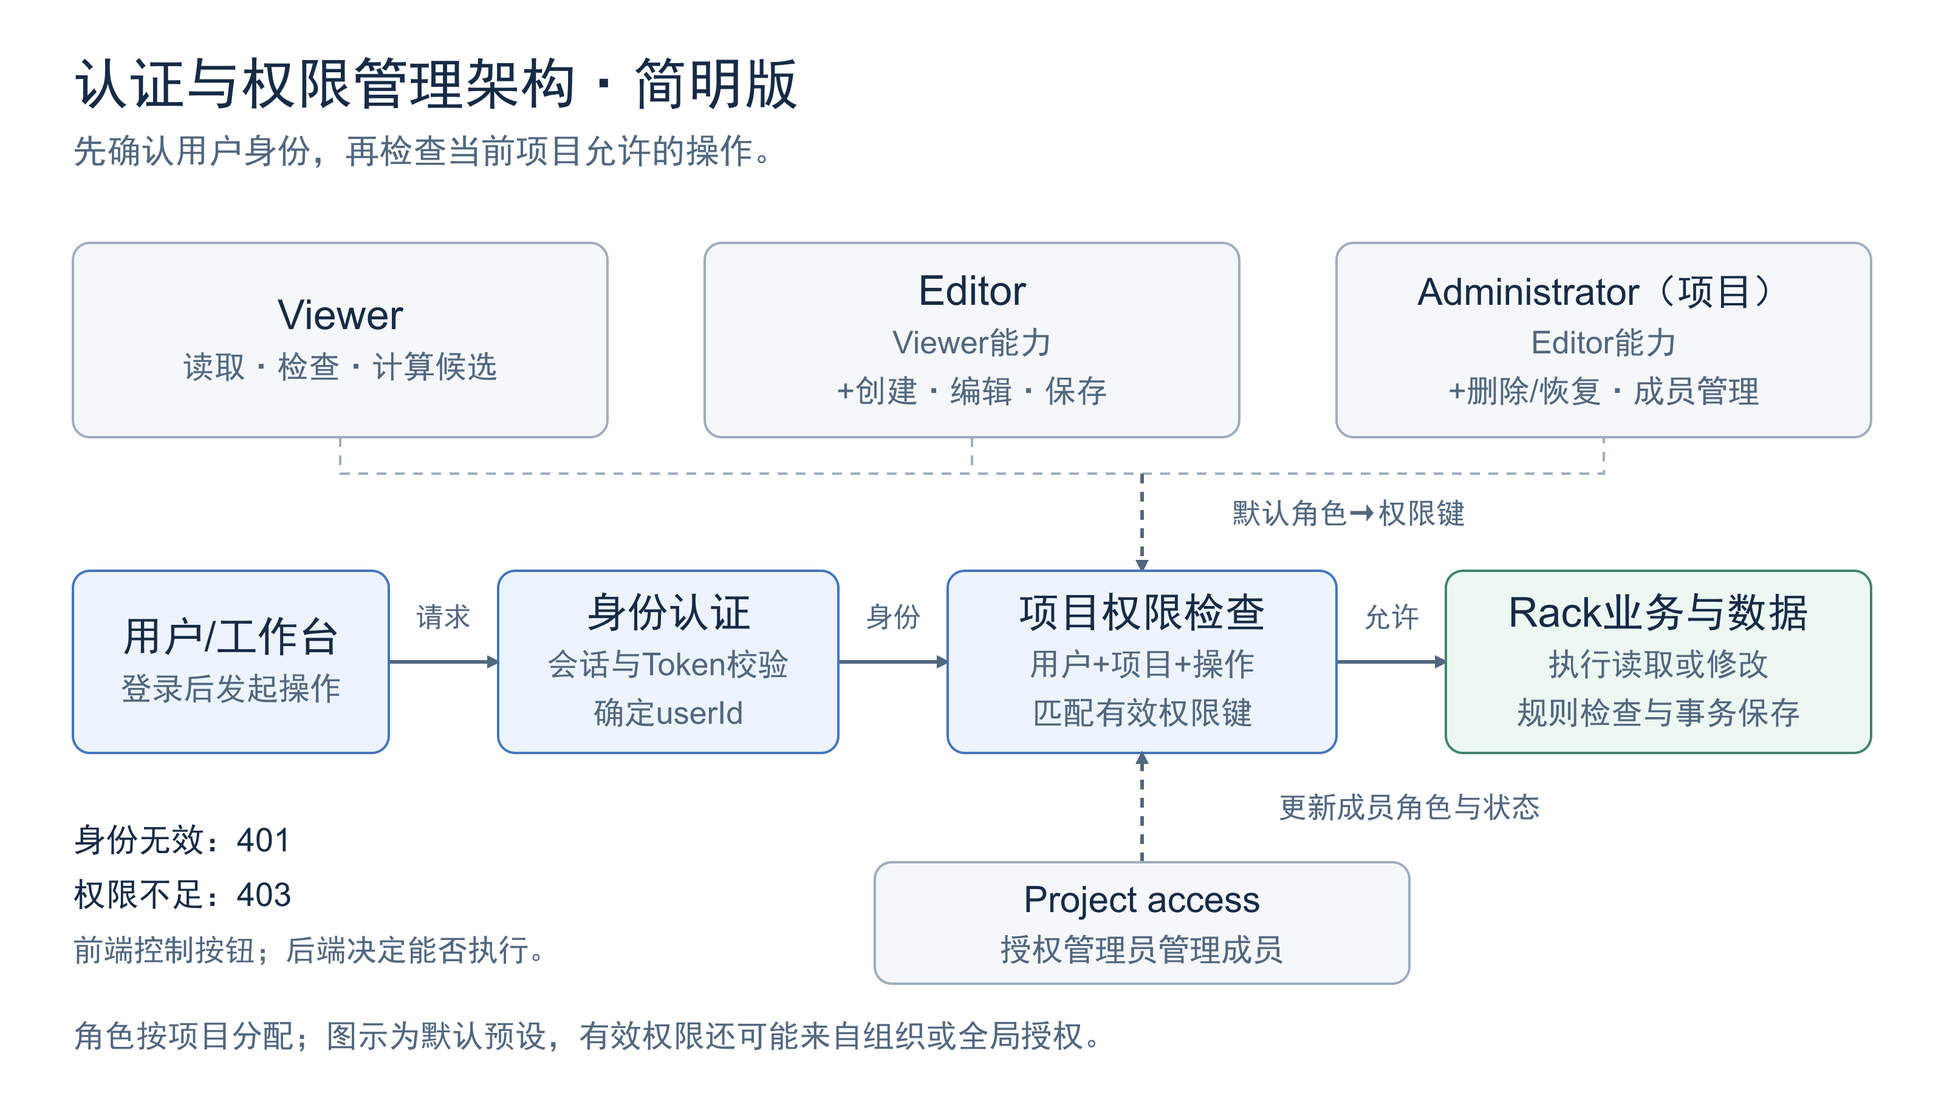
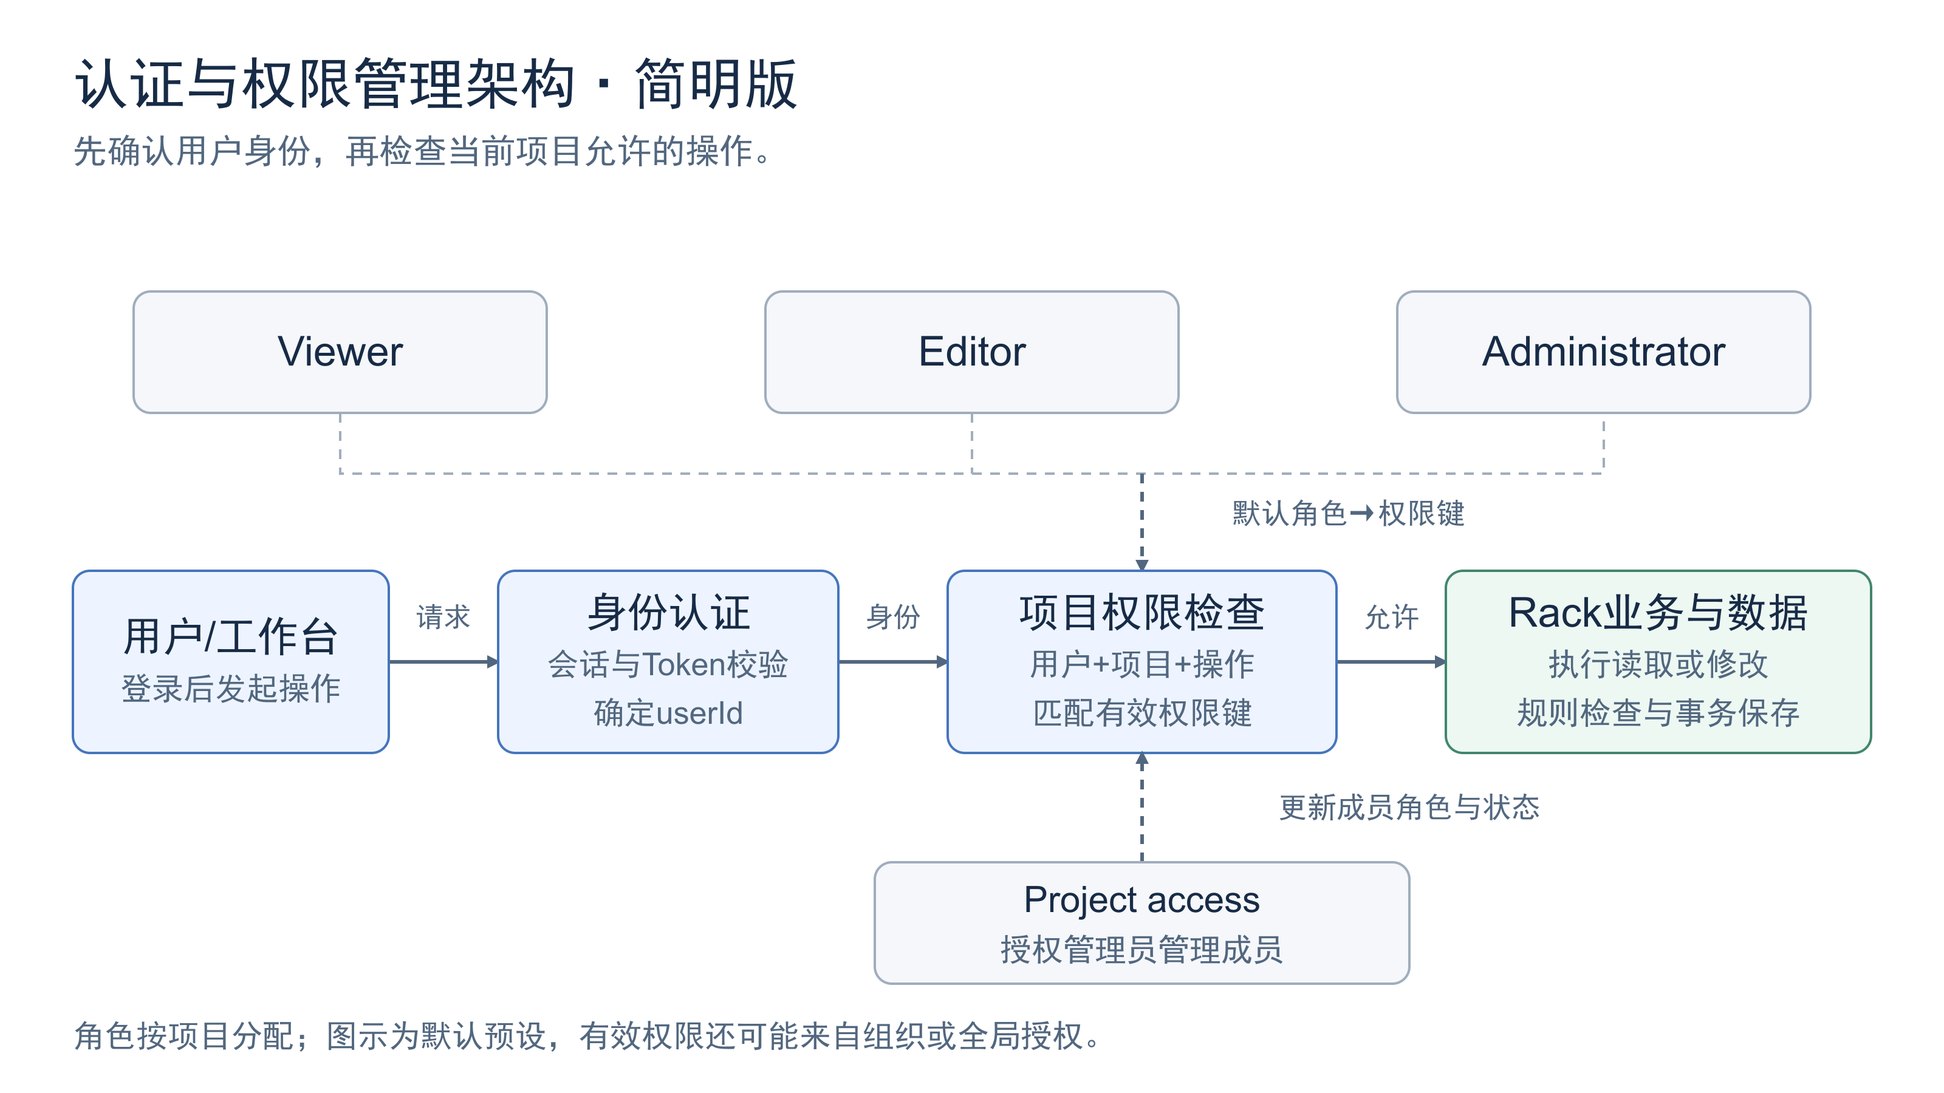
update some changes 202611011731

diff --git a/packages/rack/src/planner.js b/packages/rack/src/planner.js
@@ -49,6 +49,64 @@ function* posesFor(rack, model, boundary, clearance, options) {
   }
 }
 
+const shapeBounds = geometry => {
+  const points = geometry.coordinates[0];
+  return { minX: Math.min(...points.map(p=>p[0])), maxX: Math.max(...points.map(p=>p[0])),
+    minY: Math.min(...points.map(p=>p[1])), maxY: Math.max(...points.map(p=>p[1])) };
+};
+const unionBounds = bounds => ({ minX: Math.min(...bounds.map(b=>b.minX)), maxX: Math.max(...bounds.map(b=>b.maxX)),
+  minY: Math.min(...bounds.map(b=>b.minY)), maxY: Math.max(...bounds.map(b=>b.maxY)) });
+const occupiedBounds = shape => unionBounds([shape.bounds,...shape.bands.map(shapeBounds)]);
+// These shapes are rectangles at quarter turns. Reject only definite interior
+// overlap, with a conservative tolerance for rotation roundoff; PostGIS still
+// decides boundary/obstacle contact, holes and complete candidate validity.
+const overlaps = (a,b) => Math.min(a.maxX,b.maxX)-Math.max(a.minX,b.minX)>1e-8 &&
+  Math.min(a.maxY,b.maxY)-Math.max(a.minY,b.minY)>1e-8;
+
+function adjacentPoses(rack, model, boundary, clearance, options, placed) {
+  const room = shapeBounds(boundary);
+  if (!placed.length) {
+    const seed=plannerGeometry(rack,model,clearance), b=occupiedBounds(seed);
+    return b.minX>=room.minX && b.maxX<=room.maxX && b.minY>=room.minY && b.maxY<=room.maxY ? [seed] : [];
+  }
+  const core = unionBounds(placed.map(p=>p.bounds));
+  const fixed = placed.map(p=>({shape:p,extent:occupiedBounds(p),bands:p.bands.map(shapeBounds)}));
+  const rotations = options.allow_rotation ? [rack.rotationDeg,...[0,90,180,270].filter(r=>r!==rack.rotationDeg)] : [rack.rotationDeg];
+  const seen = new Set(), candidates = [];
+  const gap = Math.min(.2,options.grid_step_m);
+  for (const rotationDeg of rotations) {
+    const origin = plannerGeometry({...rack,xM:0,yM:0,rotationDeg},model,clearance);
+    const extent = occupiedBounds(origin);
+    for (const anchor of fixed) {
+      const a = anchor.shape.placement, b = anchor.extent;
+      const positions = [
+        [b.minX-extent.maxX-gap,a.yM], [b.maxX-extent.minX+gap,a.yM],
+        [a.xM,b.minY-extent.maxY-gap], [a.xM,b.maxY-extent.minY+gap],
+      ];
+      for (const [direction,[xM,yM]] of positions.entries()) {
+        if (Math.abs(xM)>10000 || Math.abs(yM)>10000) continue;
+        const key = `${rotationDeg}:${xM.toFixed(8)}:${yM.toFixed(8)}`;
+        if (seen.has(key)) continue;
+        seen.add(key);
+        if (xM+extent.minX<room.minX || xM+extent.maxX>room.maxX || yM+extent.minY<room.minY || yM+extent.maxY>room.maxY) continue;
+        const shape = plannerGeometry({...rack,xM,yM,rotationDeg},model,clearance);
+        const bands = shape.bands.map(shapeBounds);
+        if (fixed.some(p=>overlaps(shape.bounds,p.shape.bounds) || p.bands.some(b=>overlaps(shape.bounds,b)) || bands.some(b=>overlaps(b,p.shape.bounds)))) continue;
+        const next = unionBounds([core,shape.bounds]);
+        // Extend aligned rows, but start another row before creating a long
+        // one-rack-wide strip. Existing wide fixed clusters are not penalized.
+        const stretched=(next.maxX-next.minX)/(next.maxY-next.minY)>Math.max(2,(core.maxX-core.minX)/(core.maxY-core.minY));
+        candidates.push({shape, aligned: rotationDeg!==a.rotationDeg ? 2 : direction<2 ? (stretched?1:0) : (stretched?0:1),
+          area:(next.maxX-next.minX)*(next.maxY-next.minY),
+          distance:Math.hypot(xM-(core.minX+core.maxX)/2,yM-(core.minY+core.maxY)/2)});
+      }
+    }
+  }
+  candidates.sort((a,b)=>a.aligned-b.aligned || a.area-b.area || a.distance-b.distance ||
+    a.shape.placement.yM-b.shape.placement.yM || a.shape.placement.xM-b.shape.placement.xM || a.shape.placement.rotationDeg-b.shape.placement.rotationDeg);
+  return candidates.map(c=>c.shape);
+}
+
 export function layoutMetrics(placements, models, previous) {
   const catalog = new Map(models.map(m => [m.modelId, m]));
   const footprints = placements.map(p => rackFootprint(catalog.get(p.modelId), p).boundsM);
@@ -92,6 +150,22 @@ export async function generateRackOptions({ placements, models, boundary, constr
       });
       const search = searches.get(key);
       let found = null, rackSubmitted = 0, exhausted = false;
+      // Grow rows around the fixed/placed cluster before searching the room grid.
+      // These are freshly ranked for every rack; successful placement changes
+      // the compact envelope and creates new adjacent row-extension positions.
+      const nearby = adjacentPoses(rack,catalog.get(rack.modelId),boundary,constraints.clearance,options,placed);
+      for (let offset=0;offset<nearby.length && !found && rackSubmitted<PLANNER_LIMITS.posesPerRack && submitted<PLANNER_LIMITS.posesPerOption;) {
+        // Ranked neighbours usually succeed near the front. Avoid submitting a
+        // full room-grid batch against every fixed rack just to use its first pose.
+        const count=Math.min(32,PLANNER_LIMITS.batchSize,nearby.length-offset,PLANNER_LIMITS.posesPerRack-rackSubmitted,PLANNER_LIMITS.posesPerOption-submitted);
+        const batch=nearby.slice(offset,offset+count);offset+=count;
+        rackSubmitted+=count;submitted+=count;
+        const index=await pickPosition(batch,placed);
+        if (index!==null) {
+          if (!Number.isInteger(index)||index<0||index>=batch.length) throw new Error('Invalid planner geometry adapter result');
+          found=batch[index];
+        }
+      }
       while (!found && rackSubmitted < PLANNER_LIMITS.posesPerRack && submitted < PLANNER_LIMITS.posesPerOption) {
         const batch = [];
         const count = Math.min(PLANNER_LIMITS.batchSize, PLANNER_LIMITS.posesPerRack - rackSubmitted, PLANNER_LIMITS.posesPerOption - submitted);

diff --git a/packages/rack/src/tests/planner.test.js b/packages/rack/src/tests/planner.test.js
@@ -22,7 +22,7 @@ test('both strategies are repeatable, compact racks and leave inputs unchanged',
   const result=await generateRackOptions(input);
   assert.deepEqual(result,await generateRackOptions(input));
   assert.equal(result.length,2);
-  for(const option of result){assert.equal(option.unplaced.length,0);assert.equal(option.metrics.envelopeAreaM2,4);assert.equal(option.metrics.movedRacks,2);}
+  for(const option of result){assert.equal(option.unplaced.length,0);assert.ok(Math.abs(option.metrics.envelopeAreaM2-4.4)<1e-8);assert.equal(option.metrics.movedRacks,1);}
   assert.deepEqual({...input,pickPosition:undefined},before);
 });
 test('locked cabinets keep every property, and largest-first orders heterogeneous sizes with stable ties', async()=>{
@@ -38,7 +38,7 @@ test('maintenance bands rotate physically with the proposal; geometry adapter co
   const constraints={...EMPTY_SPATIAL_CONSTRAINTS,clearance:{frontM:1,rearM:.5}};
   const g=plannerGeometry({...rack(1),xM:0,yM:0,rotationDeg:90},model,constraints.clearance);
   assert.equal(g.bands.length,2);assert.ok(g.bands[0].coordinates[0].every(p=>p[0]>=1));
-  const [option]=await generateRackOptions(fixture({constraints,options:{allow_rotation:true,strategy:'INPUT_ORDER'},pickPosition:async batch=>batch.findIndex(p=>p.placement.rotationDeg===90)}));
+  const [option]=await generateRackOptions(fixture({constraints,options:{allow_rotation:true,strategy:'INPUT_ORDER'},pickPosition:async batch=>{const i=batch.findIndex(p=>p.placement.rotationDeg===90);return i<0?null:i;}}));
   assert.ok(option.placements.every(p=>p.rotationDeg===90));
 });
 test('no accepted grid position retains original identities and distinguishes finite exhaustion from search limits', async()=>{
@@ -59,7 +59,12 @@ test('64 identical racks continue past occupied scan prefixes without exhausting
   const wide={...model,widthM:20};
   const placements=Array.from({length:64},(_,i)=>({...rack(i),name:`Unique ${i}`,xM:10+i*20,yM:1}));
   const input=fixture({placements,models:[wide],boundary:{type:'Polygon',coordinates:[[[0,0],[1600,0],[1600,2],[0,2],[0,0]]]},
-    options:{grid_step_m:.5,allow_rotation:false,strategy:'INPUT_ORDER'}});
+    options:{grid_step_m:.5,allow_rotation:false,strategy:'INPUT_ORDER'},
+    pickPosition:async(batch,placed)=>{
+      const i=batch.findIndex(g=>Math.abs(g.placement.xM*2-Math.round(g.placement.xM*2))<1e-8 &&
+        placed.every(p=>g.bounds.maxX<=p.bounds.minX || g.bounds.minX>=p.bounds.maxX || g.bounds.maxY<=p.bounds.minY || g.bounds.minY>=p.bounds.maxY));
+      return i<0?null:i;
+    }});
   const before=structuredClone(placements);
   const [option]=await generateRackOptions(input);
   assert.equal(option.unplaced.length,0);
@@ -69,9 +74,36 @@ test('64 identical racks continue past occupied scan prefixes without exhausting
 });
 
 test('continued searches recheck the unexamined batch suffix against newly placed racks', async()=>{
-  const [option]=await generateRackOptions(fixture({options:{grid_step_m:.5,allow_rotation:false,strategy:'INPUT_ORDER'}}));
+  const [option]=await generateRackOptions(fixture({options:{grid_step_m:.5,allow_rotation:false,strategy:'INPUT_ORDER'},
+    pickPosition:async(batch,placed)=>{
+      const i=batch.findIndex(g=>g.placement.yM===1 && Math.abs(g.placement.xM*2-Math.round(g.placement.xM*2))<1e-8 &&
+        placed.every(p=>g.bounds.maxX<=p.bounds.minX || g.bounds.minX>=p.bounds.maxX || g.bounds.maxY<=p.bounds.minY || g.bounds.minY>=p.bounds.maxY));
+      return i<0?null:i;
+    }}));
   assert.deepEqual(option.placements.map(p=>[p.xM,p.yM]),[[.5,1],[1.5,1]]);
   assert.notEqual(option.placements[0].rackId,option.placements[1].rackId);
+});
+
+test('160-rack extension stays beside existing rows instead of moving the unlocked group to a room corner', async()=>{
+  const fixed=Array.from({length:96},(_,i)=>({...rack(i),xM:45+(i%12)*1.2,yM:40+Math.floor(i/12)*3.2,locked:true}));
+  const moving=Array.from({length:64},(_,i)=>({...rack(i+96),xM:10+(i%8)*1.2,yM:10+Math.floor(i/8)*3.2}));
+  const input=fixture({placements:[...fixed,...moving],boundary:{type:'Polygon',coordinates:[[[0,0],[100,0],[100,100],[0,100],[0,0]]]},
+    options:{grid_step_m:.5,allow_rotation:true,strategy:'COMPARE'}});
+  const before=structuredClone(input.placements), rows=new Set(fixed.map(p=>p.yM));
+  const results=await generateRackOptions(input);
+  for(const option of results){
+    assert.equal(option.unplaced.length,0);
+    assert.deepEqual(option.placements.slice(0,96),fixed);
+    for(const p of option.placements.slice(96)){
+      assert.ok(rows.has(p.yM),'continues the existing row centers');
+      assert.ok(p.xM>30 && p.xM<75,'stays near the existing cluster');
+      const distance=Math.min(...option.placements.filter(q=>q.rackId!==p.rackId).map(q=>Math.hypot(p.xM-q.xM,p.yM-q.yM)));
+      assert.ok(distance<1.21,'every added rack has an adjacent neighbour');
+    }
+    assert.ok(option.positionsSubmitted<=PLANNER_LIMITS.posesPerOption);
+  }
+  assert.deepEqual(input.placements,before);
+  assert.deepEqual(results,await generateRackOptions(input));
 });
 
 test('all locked racks stay exact and bypass pose search; rotation streams remain independent', async()=>{

diff --git a/apps/web/src/rack/RackOptions.jsx b/apps/web/src/rack/RackOptions.jsx
@@ -3,7 +3,7 @@ import { RoomFloorplan } from './RackRoomView.jsx';
 import { rackError } from './rack-plan-state.js';
 import { optionStageReason, stageRackOption } from './rack-options-state.js';
 
-const label = id => id === 'row-scan-v1' ? 'Row scan · baseline' : 'Largest first · heuristic';
+const label = id => id === 'row-scan-v1' ? 'Compact rows · saved order' : 'Compact rows · largest first';
 const number = n => Number(n.toFixed(3)).toLocaleString();
 
 export function RackOptions({ client, layout, draft, canWrite, onDraftChange, onNavigate }) {
@@ -39,14 +39,14 @@ export function RackOptions({ client, layout, draft, canWrite, onDraftChange, on
   }
   return <section className="rack-options" aria-label="Rack layout options">
     <h3>Generate and compare layouts</h3>
-    <p>Relocate the existing unlocked racks; keep locked positions, identities, equipment assignments and capacity assumptions. Search uses the fixed room Polygon, holes, exclusion zones and declared front/rear clearances.</p>
-    <p className="rack-muted">Two deterministic greedy strategies, with bounded grid search. Neither guarantees an optimum or proves that a room is full. No device allocation, connected-aisle planning or engineering certification is performed.</p>
+    <p>Place unlocked racks beside the existing rows, extending the cluster before searching the room grid. Keep locked positions, identities, equipment assignments and capacity assumptions. Search respects the fixed room Polygon, holes, exclusion zones and declared front/rear clearances.</p>
+    <p className="rack-muted">Two deterministic greedy strategies, with bounded adjacent-position and grid search. Neither guarantees an optimum or proves that a room is full. No device allocation, connected-aisle planning or engineering certification is performed.</p>
     <form className="rack-card" onSubmit={generate} aria-label="Layout search parameters">
       <div className="rack-form-fields">
         <label>Grid step (m)<input type="number" min="0.1" max="5" step="0.1" required disabled={pending}
           value={Number.isFinite(step) ? step : ''} onChange={e => setStep(e.target.value === '' ? NaN : Number(e.target.value))} /></label>
         <label>Strategy<select value={strategy} disabled={pending} onChange={e => setStrategy(e.target.value)}>
-          <option value="COMPARE">Compare both strategies</option><option value="INPUT_ORDER">Saved rack order / row scan</option><option value="LARGEST_FIRST">Largest footprint first</option>
+          <option value="COMPARE">Compare both strategies</option><option value="INPUT_ORDER">Compact rows / saved rack order</option><option value="LARGEST_FIRST">Compact rows / largest footprint first</option>
         </select></label>
       </div>
       <label className="rack-option-check"><input type="checkbox" checked={rotate} disabled={pending} onChange={e => setRotate(e.target.checked)} />Allow quarter-turn rotations</label>

diff --git a/RACK_PLANNER.md b/RACK_PLANNER.md
@@ -2,7 +2,7 @@
 
 2026-10-29，第十六轮。入口：Rack → Layout options → 选方案 → Generate layout options。
 
-当前闭环：读取保存版 → 有限网格搜索 → 完整后端检查 → 比较/预览 → 明确勾选 → Use selected option as draft → Save layout。生成和选用为草稿均不写数据库；保存才推进 Rack 版本。
+当前闭环：读取保存版 → 优先沿已有行紧凑扩展，网格搜索兜底 → 完整后端检查 → 比较/预览 → 明确勾选 → Use selected option as draft → Save layout。生成和选用为草稿均不写数据库；保存才推进 Rack 版本。
 
 ## 算法范围与输入
 
@@ -14,8 +14,10 @@
 
 | 策略/版本 | 排序 | 搜索 |
 | --- | --- | --- |
-| INPUT_ORDER / row-scan-v1 | 保存版稳定机柜顺序（当前 API 按 rack UUID 排序） | 从房间局部坐标下方逐行向上、每行向右扫描 |
-| LARGEST_FIRST / largest-first-v1 | 占地面积降序，同面积按 UUID 字典序 | 同一套网格与检查器 |
+| INPUT_ORDER / row-scan-v1 | 保存版稳定机柜顺序（当前 API 按 rack UUID 排序） | 优先沿已有机柜行扩展，以包围面积与距离排序；网格兜底 |
+| LARGEST_FIRST / largest-first-v1 | 占地面积降序，同面积按 UUID 字典序 | 同一套相邻位置搜索、网格兜底与检查器 |
+
+2026-11-01紧凑排列修正：上述策略ID为兼容现有调用保留，搜索顺序已改为优先贴近锁定／已放置机柜。逐柜重新提出同行左右、相邻行上下位置，先匹配行方向，再比较整体柜体包围面积和距机柜群中心的距离；避免只延伸成过长单行。相邻包围范围间隔取min(0.2m, 网格步长)，前后方向包含声明的维护带，不把0.2m当作工程通道标准。无固定柜时先尝试首柜原保存位置。相邻位置允许偏离房间原点网格；无可接受相邻位置时才扫描房间网格，两者共享原预算。所有位置仍须通过精确空间检查，不能保证任意障碍条件下都能紧邻。
 
 先固定锁定柜；逐台尝试位置与方向，保留第一个接受的位置。前后维护带随方向旋转，允许维护带共享；双向检查新柜实体与已放柜维护带，以及新维护带与已放柜实体。房间包围框**只提议位置**，实际 Polygon、凹口、孔洞与障碍由 PostGIS 判断。
 
@@ -26,7 +28,7 @@
 ## 边界、未放置与指标
 
 - 网格步长 0.1–5 m，默认 0.5 m；允许旋转时按当前方向优先，再尝试其余四分之一转。
-- 一次最多两候选、64 个未锁定机柜；每柜最多 2,048 个提议姿态、每候选最多 16,384 个，128 个为一批。已锁定机柜仍计入原 256 柜方案上限。
+- 一次最多两候选、64 个未锁定机柜；每柜最多 2,048 个提议姿态、每候选最多 16,384 个，相邻搜索每批最多32个、网格兜底每批最多128个。已锁定机柜仍计入原 256 柜方案上限。
 - 查询单次最多 5 秒，服务在批次间和完整检查前后检查 15 秒时间预算。运行中的 SQL 需等到完成/超时；因此不是精确 15 秒的响应 SLA。页面 Stop waiting 取消等待，不承诺立即中断服务器计算。
 - `NO_GRID_POSITION`：已扫描当前有限网格，受此前贪心选择影响；`SEARCH_LIMIT`：提议次数耗尽。未放置柜在部分预览中保留原位与身份，整候选禁止选用为草稿。
 - 所有候选保留每台柜身份；最终空间或设备报告存在错误时同样禁止选用。UNKNOWN/INCOMPLETE 保持原有有限范围语义，整体 NOT_RUN。

diff --git a/doc/tools/rack/demand-planning.md b/doc/tools/rack/demand-planning.md
@@ -73,7 +73,7 @@ Unknown device resources, unplaced equipment, actual spatial/resource conflicts 
 
 ## Other Planning Operations
 
-Existing-rack relocation compares row-scan-v1 and largest-first-v1, preserves devices/U assignments and saved locked rack geometry, and uses a configurable 0.1–5m grid. Bounds: 64 movable racks, 2,048 submitted poses per rack, 16,384 per option, batches of 128.
+Existing-rack relocation compares row-scan-v1 and largest-first-v1 (retained compatibility IDs), preserves devices/U assignments and saved locked rack geometry, and first extends existing rows with compact adjacent positions. It prefers matching row directions and smaller body envelopes, using a gap of min(0.2m, grid step) between body/maintenance envelopes. Adjacent poses need not lie on the room-origin grid; the configurable 0.1–5m grid is a fallback. All poses receive authoritative geometry checks. Shared bounds: 64 movable racks, 2,048 submitted poses per rack, 16,384 per option; adjacent batches up to32 and fallback grid batches up to128.
 
 Automatic equipment allocation changes only unassigned devices. It sorts descending height with stable ID ties, scans contiguous U gaps in unlocked racks and checks weight/power/cooling plus optional room budget. Bounds: 128 pending devices, 64 eligible racks, rack height at most 100U. Installed assignments and all rack positions stay unchanged. Unknown/oversized/room-blocked devices remain unassigned with reasons.
 

diff --git a/doc/tools/rack/ui-pattern.md b/doc/tools/rack/ui-pattern.md
@@ -154,6 +154,11 @@ with a specific explanation; the UI never changes locks automatically. Existing
 equipment assignments remain unchanged by relocation. Automatic device allocation
 is a separate operation and excludes locked racks as installation targets.
 
+Candidates first extend the existing rack rows, matching nearby row directions
+and preferring a compact body envelope. They propose adjacent positions around
+locked/already placed racks before using the room grid as a fallback. Obstacles
+and maintenance clearances remain enforced by the server for every position.
+
 Within each strategy, identical model/orientation searches continue past rejected
 or occupied grid prefixes; unexamined suffixes are rechecked against newly placed
 racks. Geometry batches reuse parsed shapes and bounding-box rejection before exact

diff --git a/RACK_PRESENTATION_OUTLINE.md b/RACK_PRESENTATION_OUTLINE.md
@@ -428,6 +428,8 @@ Full模式只跳过确认卡片。Viewer即使选Full也没有写权限。来源
 
 [可编辑SVG](presentation-assets/access-control-simple-16x9.svg) · PNG为3200×1800，适合直接放入16:9 PPT。沿用Assistant简明架构图样式，中文黑体（SimHei），英文Arial。
 
+图中三个角色框仅保留名称，具体权限另见下方表格，汇报时单独介绍。
+
 **这张图怎么讲：**
 
 - **主线：** 用户发起操作，认证模块确定用户身份；权限模块根据“用户＋当前项目＋操作”检查有效权限；允许后交给Rack业务服务执行，修改仍需通过规则检查和事务保存。
